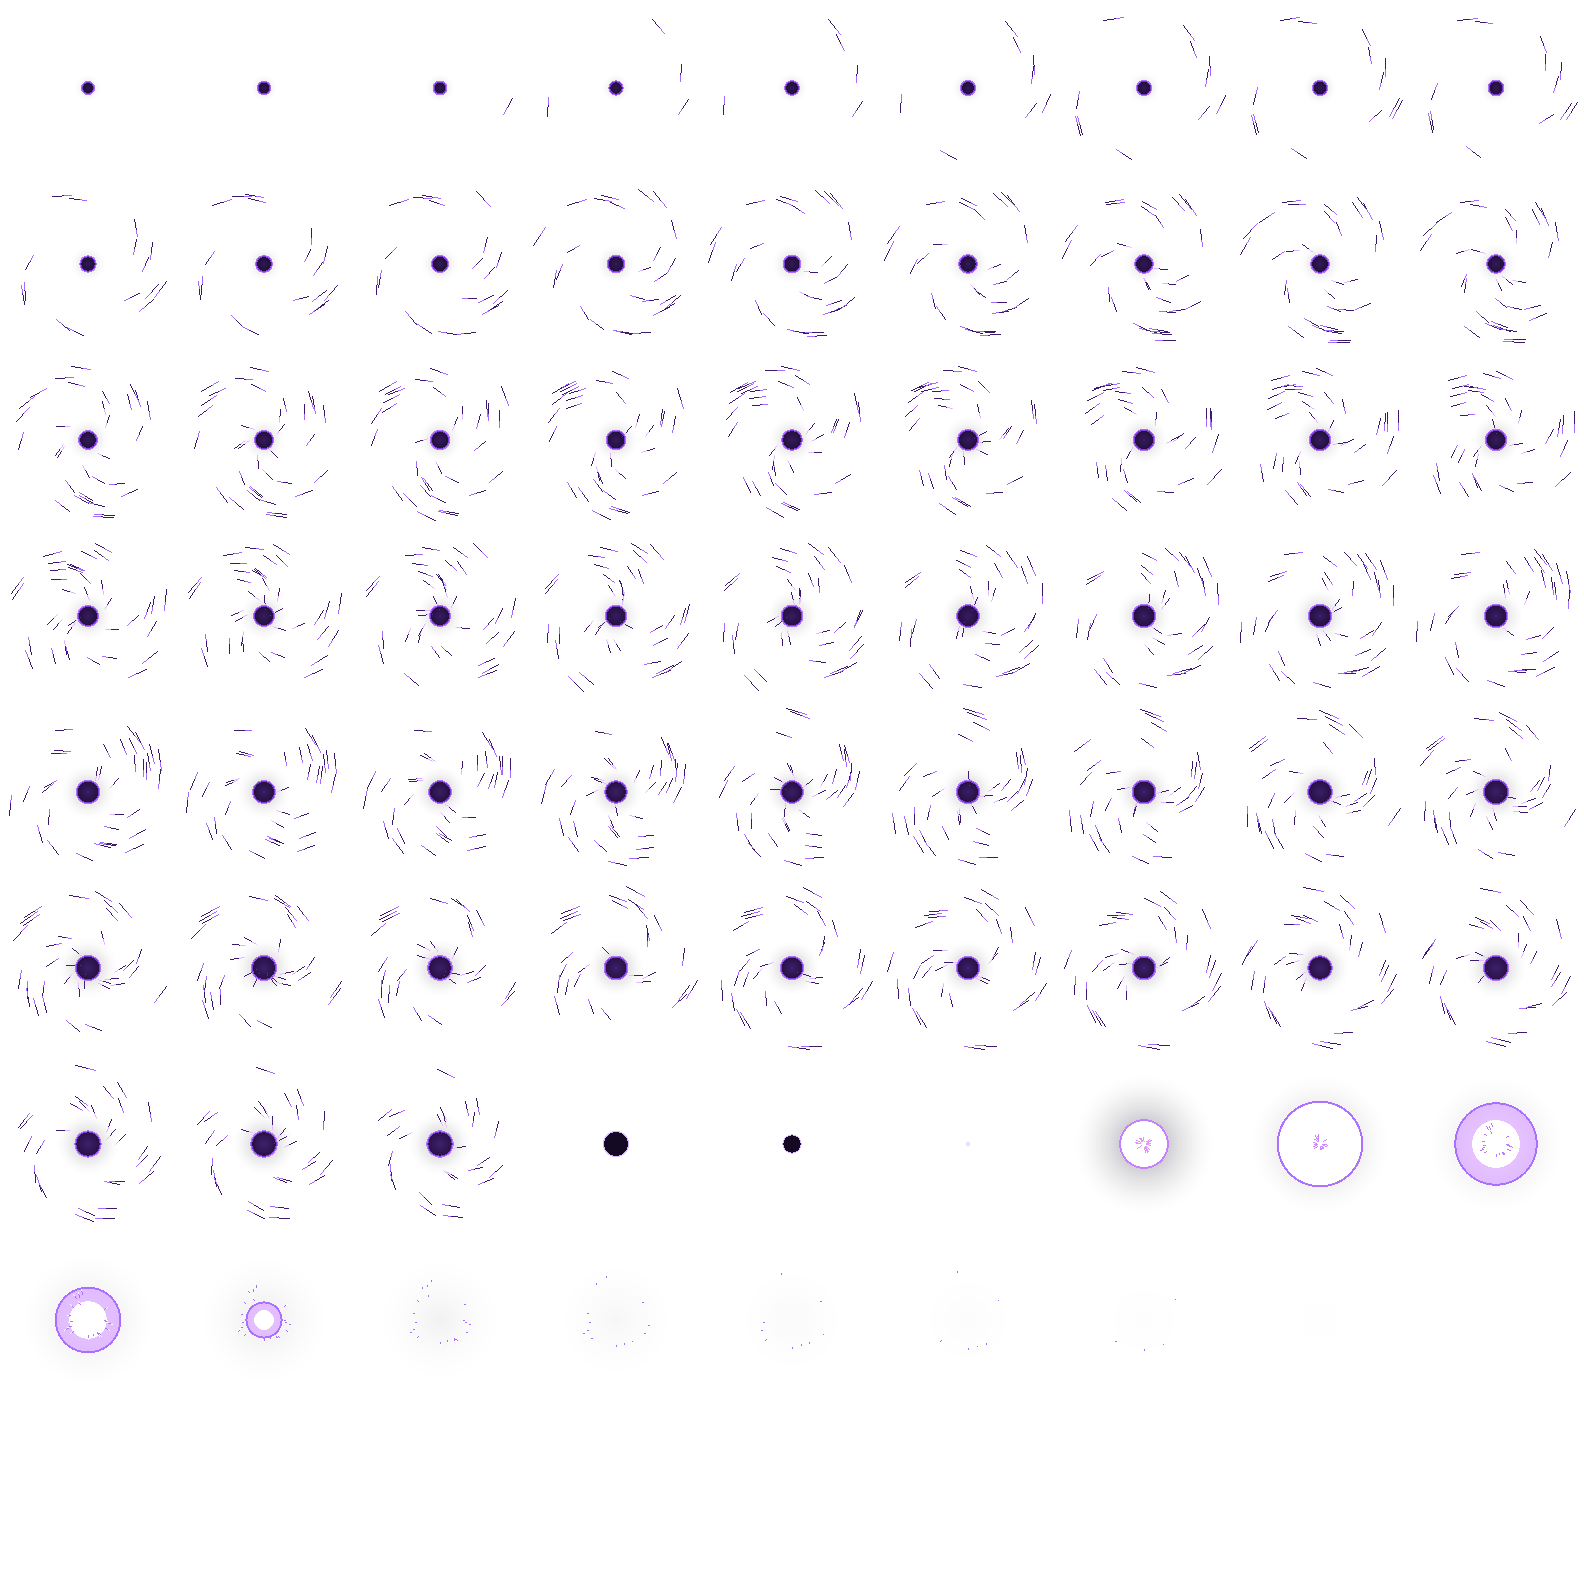
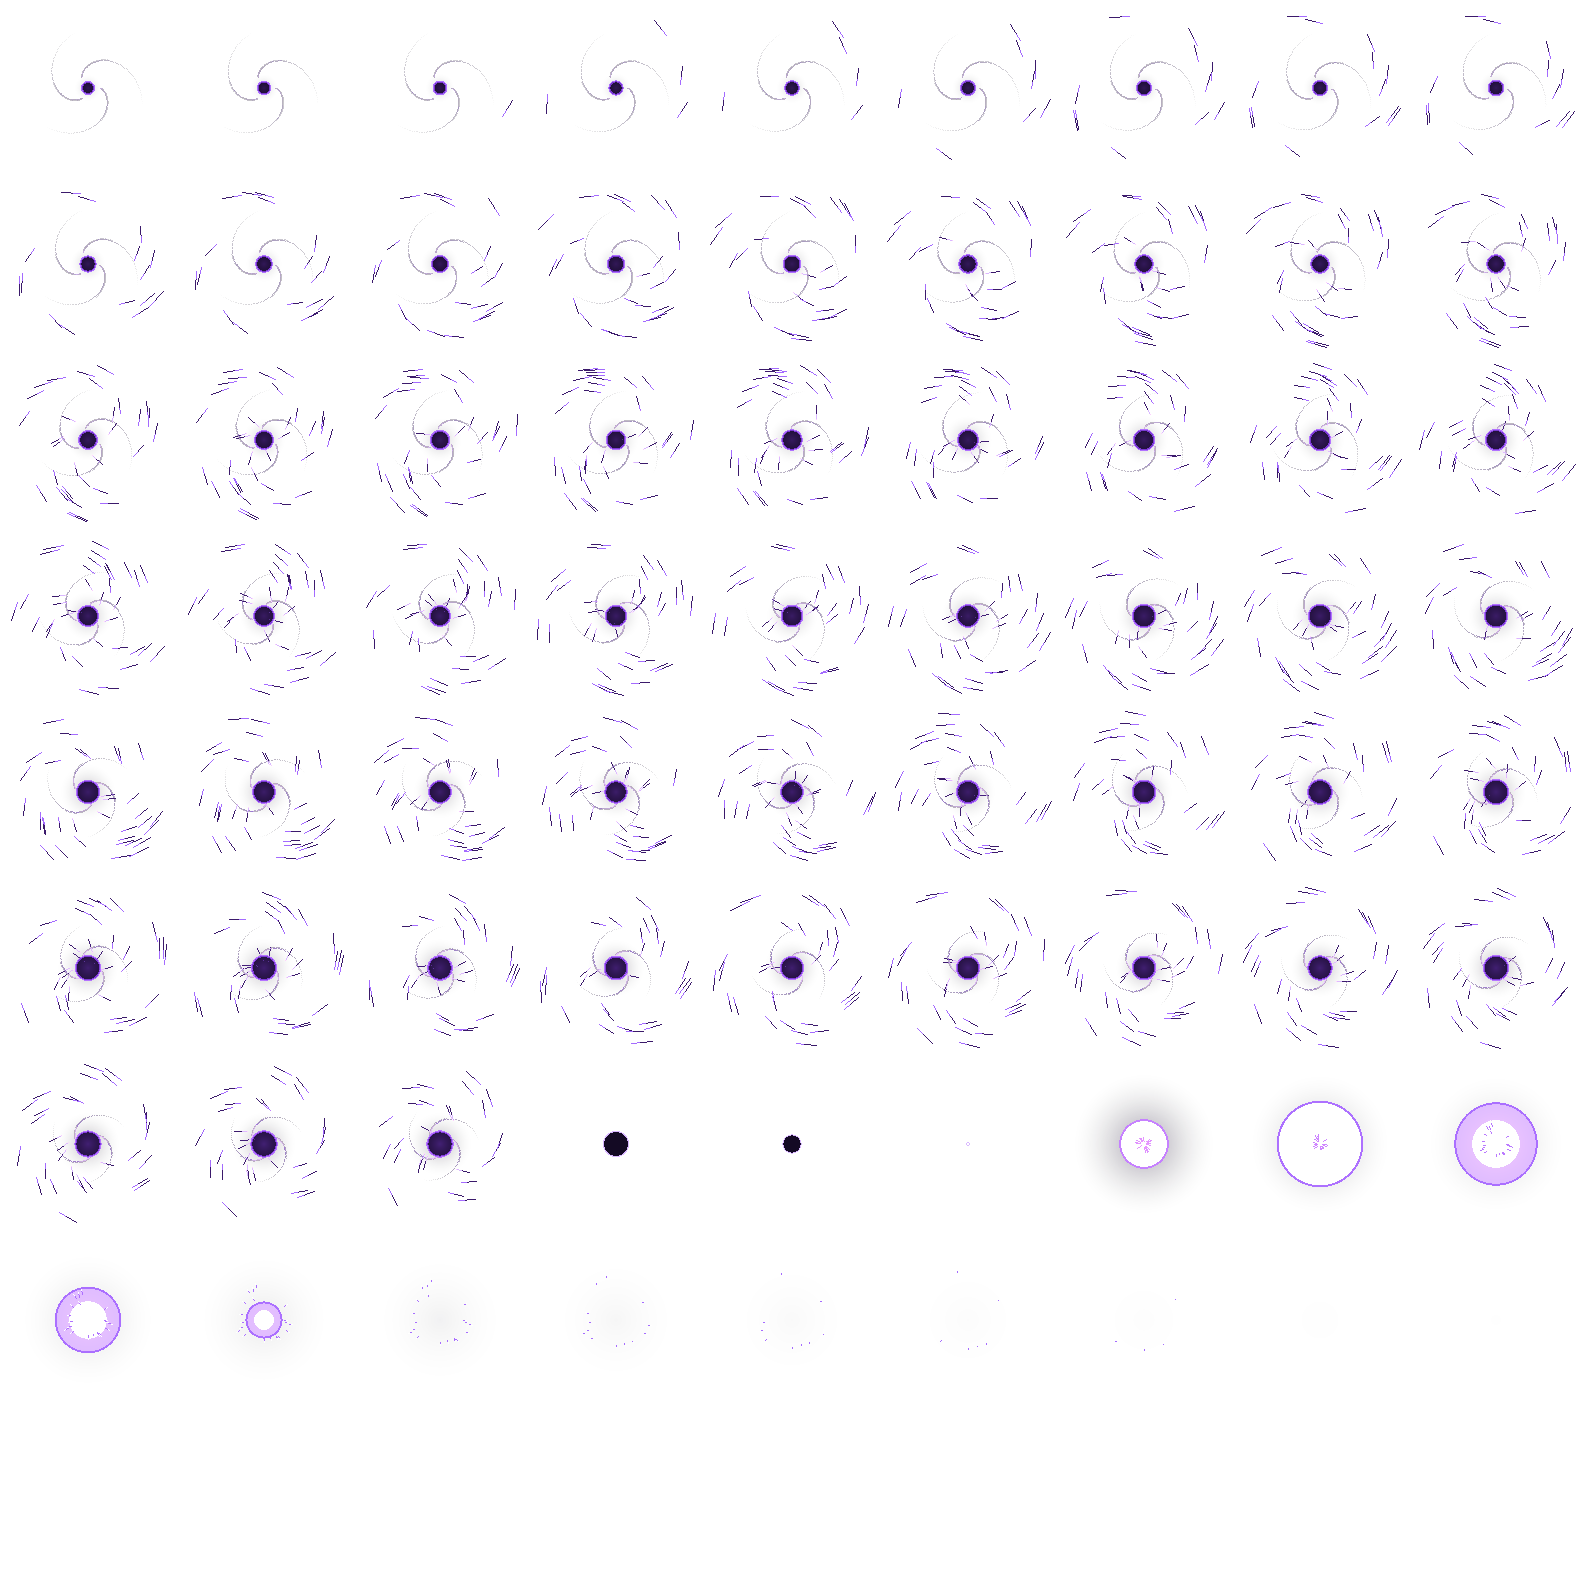
[Feat] 블랙홀 픽셀 연출 회전(천천히 시작해 끝에서 빨라짐), 나선 팔 3개, 적 아래로 그리기
- 회전은 시트에 구워 넣음(엔진 회전은 점 필터 도트가 깨짐). 초당 0.06바퀴 → 1바퀴
- 2초 내내 끌려오는 적을 가리지 않게 정렬 순서 20 → 1

diff --git a/Tools/pixelfx/src/fx/arcane/blackhole-implode.js b/Tools/pixelfx/src/fx/arcane/blackhole-implode.js
@@ -13,7 +13,7 @@ export const meta = {
   loop: false,
   fps: 30,
   bg: "dark",
-  options: { palette: ["#140a24", "#3b1a6b", "#6b33b8", "#a46bff", "#d9b8ff", "#ffffff"], radius: 76, pull: 2, seed: 9 },
+  options: { palette: ["#140a24", "#3b1a6b", "#6b33b8", "#a46bff", "#d9b8ff", "#ffffff"], radius: 76, pull: 2, spinStart: 0.4, spinEnd: 6, seed: 9 },
 };
 
 export function draw(p, t, o) {
@@ -23,18 +23,36 @@ export function draw(p, t, o) {
   // the pull: streaks born all through the pull, spiralling in faster as they near the core
   // the pop lands exactly at t = pull, the game's explosion moment, so the collapse takes the last 0.1 s of the pull
   if (t < P - 0.1) {
+    // the whole swirl turns about the core and winds up faster toward the collapse. Baked into the frames rather than
+    // rotating the sprite in the engine, where a point-filtered pixel sheet shears and jitters at odd angles.
+    // angular speed eases from spinStart to spinEnd (rad/s) along t², so it starts lazy and only races near the end;
+    // spin is that speed integrated over time.
+    const g = seg(t, 0, P), s0 = o.spinStart, s1 = o.spinEnd, spin = s0 * t + ((s1 - s0) * t * t * t) / (3 * P * P);
     burst(130, o.seed, (r, i) => {
       const born = (i / 130) * (P - 0.3) + r.range(0, 0.15), life = r.range(0.35, 0.55), tt = t - born;
       if (tt < 0 || tt > life) return;
       const q = ease.inQuad(tt / life), a0 = r.range(0, TAU), rad = R * r.range(0.85, 1.05) * (1 - q) + 6 * q;
-      const a = a0 + q * 1.4, x = Math.cos(a) * rad, y = Math.sin(a) * rad;
+      const a = a0 + q * 1.4 + spin, x = Math.cos(a) * rad, y = Math.sin(a) * rad;
       // tail points back out along the spiral
       const L = 5 + 9 * q, ta = a - 0.25;
       p.line(x, y, Math.cos(ta) * (rad + L), Math.sin(ta) * (rad + L), (u) => (u < 0.4 ? (q > 0.6 ? C[4] : C[3]) : C[1]));
       if (q > 0.5) p.light(x, y, C[3], 0.3 * q);
     });
+    // spiral arms wound round the core: a faint accretion disc that brightens and tightens as the pull goes on
+    const arms = 3, inner = 12, outer = R * (0.75 - 0.25 * g);
+    for (let k = 0; k < arms; k++) {
+      const base = (k / arms) * TAU + spin;
+      for (let d = inner; d <= outer; d += 0.6) {
+        const u = (d - inner) / (outer - inner), a = base + u * 2.4;
+        const x = Math.cos(a) * d, y = Math.sin(a) * d, alpha = Math.min(1, (1 - u) * (0.6 + 0.6 * g));
+        const c = u < 0.3 ? C[4] : u < 0.65 ? C[3] : C[2];
+        p.blend(x, y, c, alpha);
+        // two pixels thick near the core, thinning to a hair at the tip
+        if (u < 0.5) p.blend(x + Math.cos(a), y + Math.sin(a), c, alpha * 0.6);
+      }
+    }
     // the core: a dark disc with a violet rim that swells and throbs
-    const g = seg(t, 0, P), rr = 5 + 6 * ease.outQuad(g) + Math.sin(t * 18) * 0.8 * g;
+    const rr = 5 + 6 * ease.outQuad(g) + Math.sin(t * 18) * 0.8 * g;
     p.circle(0, 0, rr + 2, C[3]);
     p.circle(0, 0, rr + 1, C[2]);
     p.circle(0, 0, rr, C[0]);
